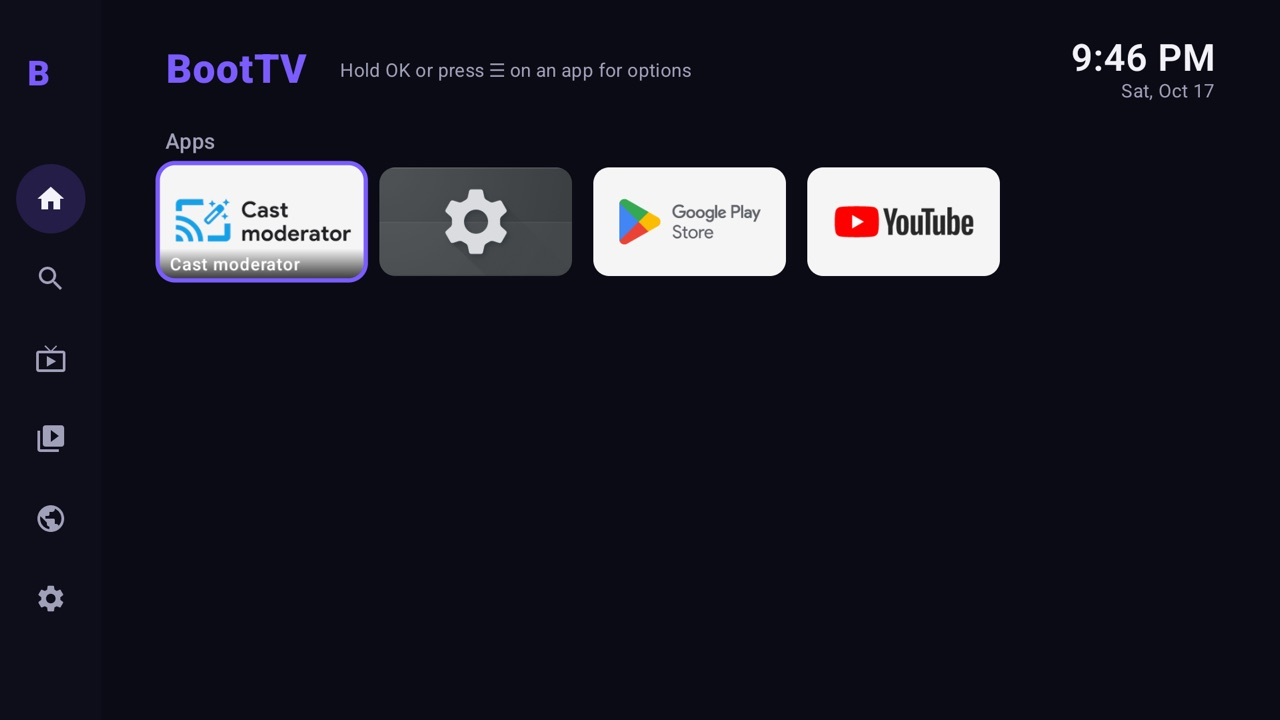
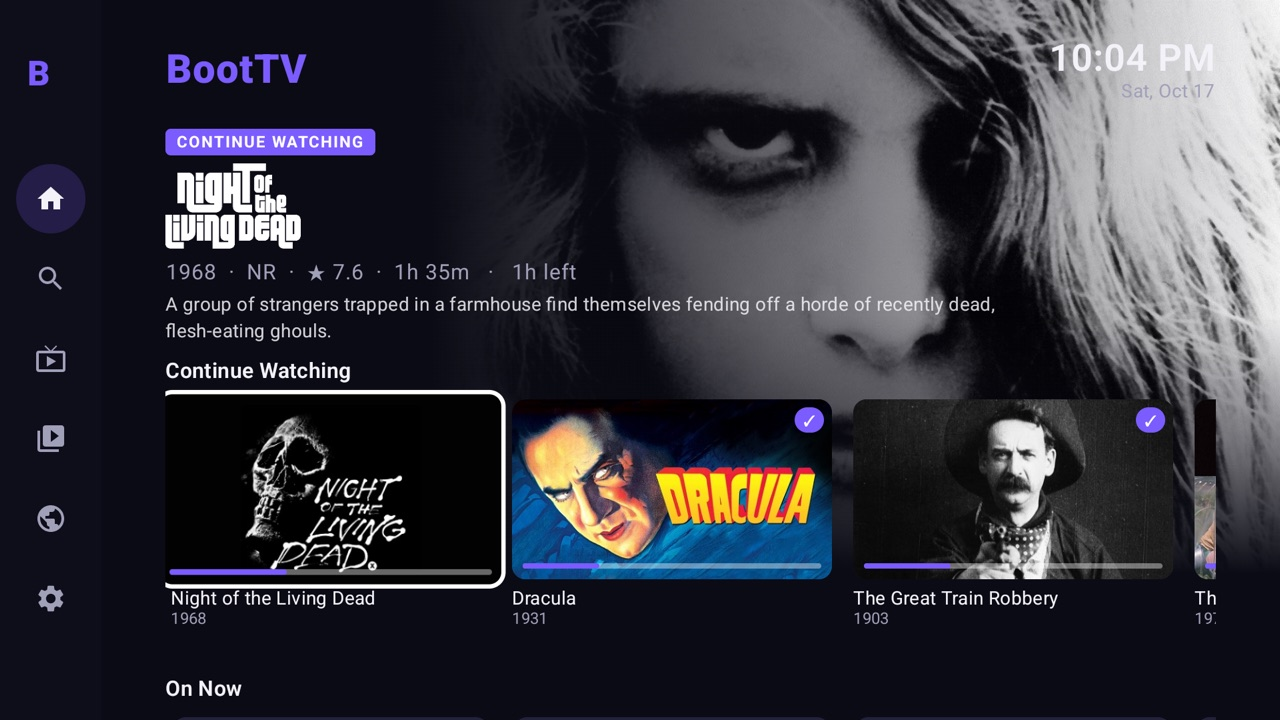
Stick guide: new home screenshots, TV hero, Roku comparison

diff --git a/docs/stick.html b/docs/stick.html
@@ -101,6 +101,20 @@
   }
   kbd { font: 500 0.85em var(--mono); background: var(--code-bg); border-radius: 5px; padding: 1px 6px; color: var(--fg); }
 
+  .tvhero { display: grid; gap: 14px; justify-items: center; margin-top: 40px; }
+  .tv {
+    width: 100%; max-width: 1040px; background: #08080c; padding: 12px; border-radius: 16px;
+    box-shadow: 0 30px 60px -30px rgba(20, 10, 60, .55), inset 0 0 0 1px #24222e;
+  }
+  .tv img { display: block; width: 100%; aspect-ratio: 16 / 9; border-radius: 6px; }
+  .tablewrap { overflow-x: auto; }
+  table { border-collapse: collapse; width: 100%; min-width: 520px; font-size: 0.95rem; }
+  th, td { text-align: left; padding: 11px 12px; border-bottom: 1px solid var(--line); vertical-align: top; }
+  thead th { font: 500 0.78rem/1.2 var(--mono); letter-spacing: 0.06em; text-transform: uppercase; color: var(--muted); }
+  tbody th { font-weight: 600; }
+  td.yes::before { content: "✓ "; color: var(--good); font-weight: 700; }
+  td.no { color: var(--muted); }
+  td.no::before { content: "✕ "; color: var(--bad); font-weight: 700; }
   .facts { display: grid; grid-template-columns: repeat(auto-fit, minmax(220px, 1fr)); gap: 12px; }
   .fact { border-top: 2px solid var(--line); padding-top: 12px; display: grid; gap: 6px; }
   .fact p { color: var(--muted); font-size: 0.95rem; }
@@ -114,6 +128,31 @@
     <h1>Plug in a $50 stick. Get your home screen.</h1>
     <p class="lede">A Google TV HDMI stick runs BootTV, the ad-free Roku-style launcher we built: app grid, free live TV guide, your own movies, YouTube, a web browser and one search box for all of it.</p>
   </header>
+</div>
+
+<section class="wide tvhero" aria-label="BootTV home screen">
+  <div class="tv"><img src="screenshots/home.jpg" alt="BootTV home screen: a Dracula banner with Resume, a Continue Watching row and a live On Now row"></div>
+  <p class="note">This is the home screen you get. The banner follows whatever you highlight, and nothing on it is an ad.</p>
+</section>
+
+<div class="wrap" style="margin-top:56px">
+  <section id="compare">
+    <span class="eyebrow">Why bother</span>
+    <h2>BootTV vs. your Roku stick</h2>
+    <div class="tablewrap">
+      <table>
+        <thead><tr><th scope="col"></th><th scope="col">Roku stick</th><th scope="col">Stick + BootTV</th></tr></thead>
+        <tbody>
+          <tr><th scope="row">Ads on the home screen</th><td class="no">Sponsored banner and promos</td><td class="yes">None</td></tr>
+          <tr><th scope="row">Pick up where you left off</th><td class="no">Inside each app</td><td class="yes">On Home, across your movies</td></tr>
+          <tr><th scope="row">Free live TV guide</th><td class="yes">The Roku Channel</td><td class="yes">Pluto, Samsung TV Plus, Plex, Roku feeds</td></tr>
+          <tr><th scope="row">Your own movie files</th><td class="no">Needs a separate app</td><td class="yes">Built in, Netflix-style</td></tr>
+          <tr><th scope="row">Web browser</th><td class="no">None</td><td class="yes">Built in, with ad blocking</td></tr>
+          <tr><th scope="row">Netflix, YouTube, Prime, Disney+</th><td class="yes">Yes</td><td class="yes">Yes, from the Play Store</td></tr>
+        </tbody>
+      </table>
+    </div>
+  </section>
 
   <section id="buy">
     <span class="eyebrow">Step 1 · Buy</span>
@@ -161,8 +200,12 @@
   <h2>BootTV on the TV</h2>
   <div class="screens">
     <figure>
-      <a href="screenshots/home.jpg" target="_blank" rel="noopener"><img src="screenshots/home.jpg" alt="BootTV home screen with an app grid and a side menu" loading="lazy"></a>
-      <figcaption><b>Home.</b> Your apps as big tiles: no sponsored rows, no autoplay trailers. Hold OK to move, hide or PIN-lock an app. This test device has only four apps installed.</figcaption>
+      <a href="screenshots/home_live.jpg" target="_blank" rel="noopener"><img src="screenshots/home_live.jpg" alt="Home with a live channel highlighted; the banner shows what's on now and next" loading="lazy"></a>
+      <figcaption><b>On Now.</b> Highlight a live channel on Home and the banner shows what's on and what's next. Press OK to watch.</figcaption>
+    </figure>
+    <figure>
+      <a href="screenshots/home_apps.jpg" target="_blank" rel="noopener"><img src="screenshots/home_apps.jpg" alt="Home scrolled down to the apps row below Continue Watching and On Now" loading="lazy"></a>
+      <figcaption><b>Your apps.</b> Big tiles below the rows. Hold OK to move, hide or PIN-lock one. This test device has only four apps installed.</figcaption>
     </figure>
     <figure>
       <a href="screenshots/live.jpg" target="_blank" rel="noopener"><img src="screenshots/live.jpg" alt="Live TV guide grid with channels such as CBS News 24/7 and a preview window" loading="lazy"></a>
